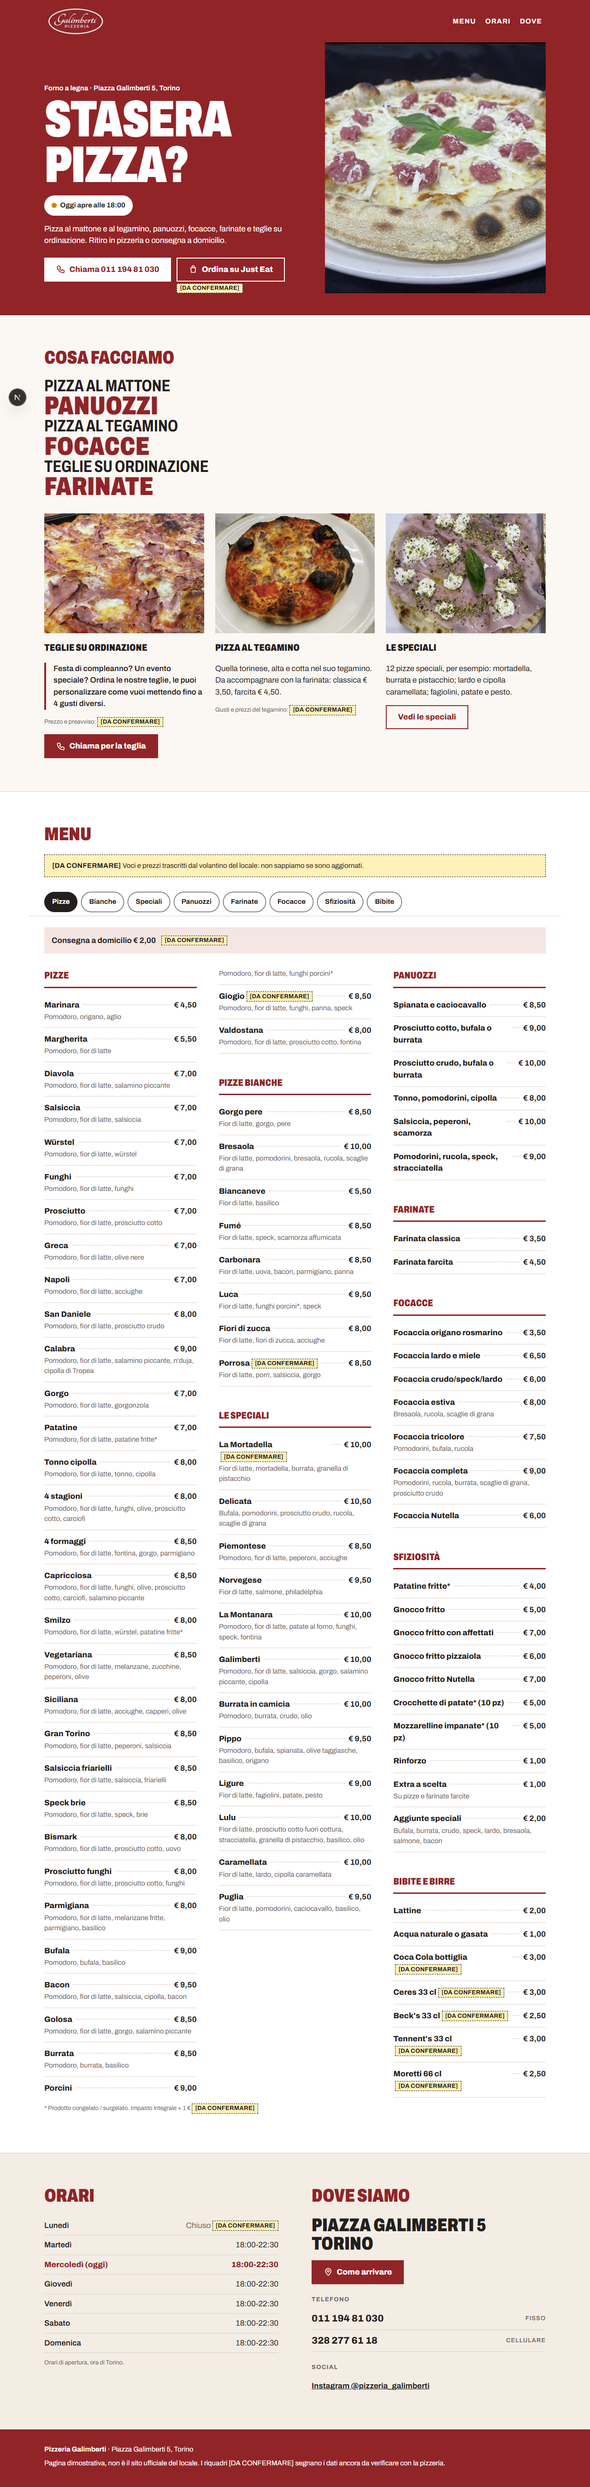
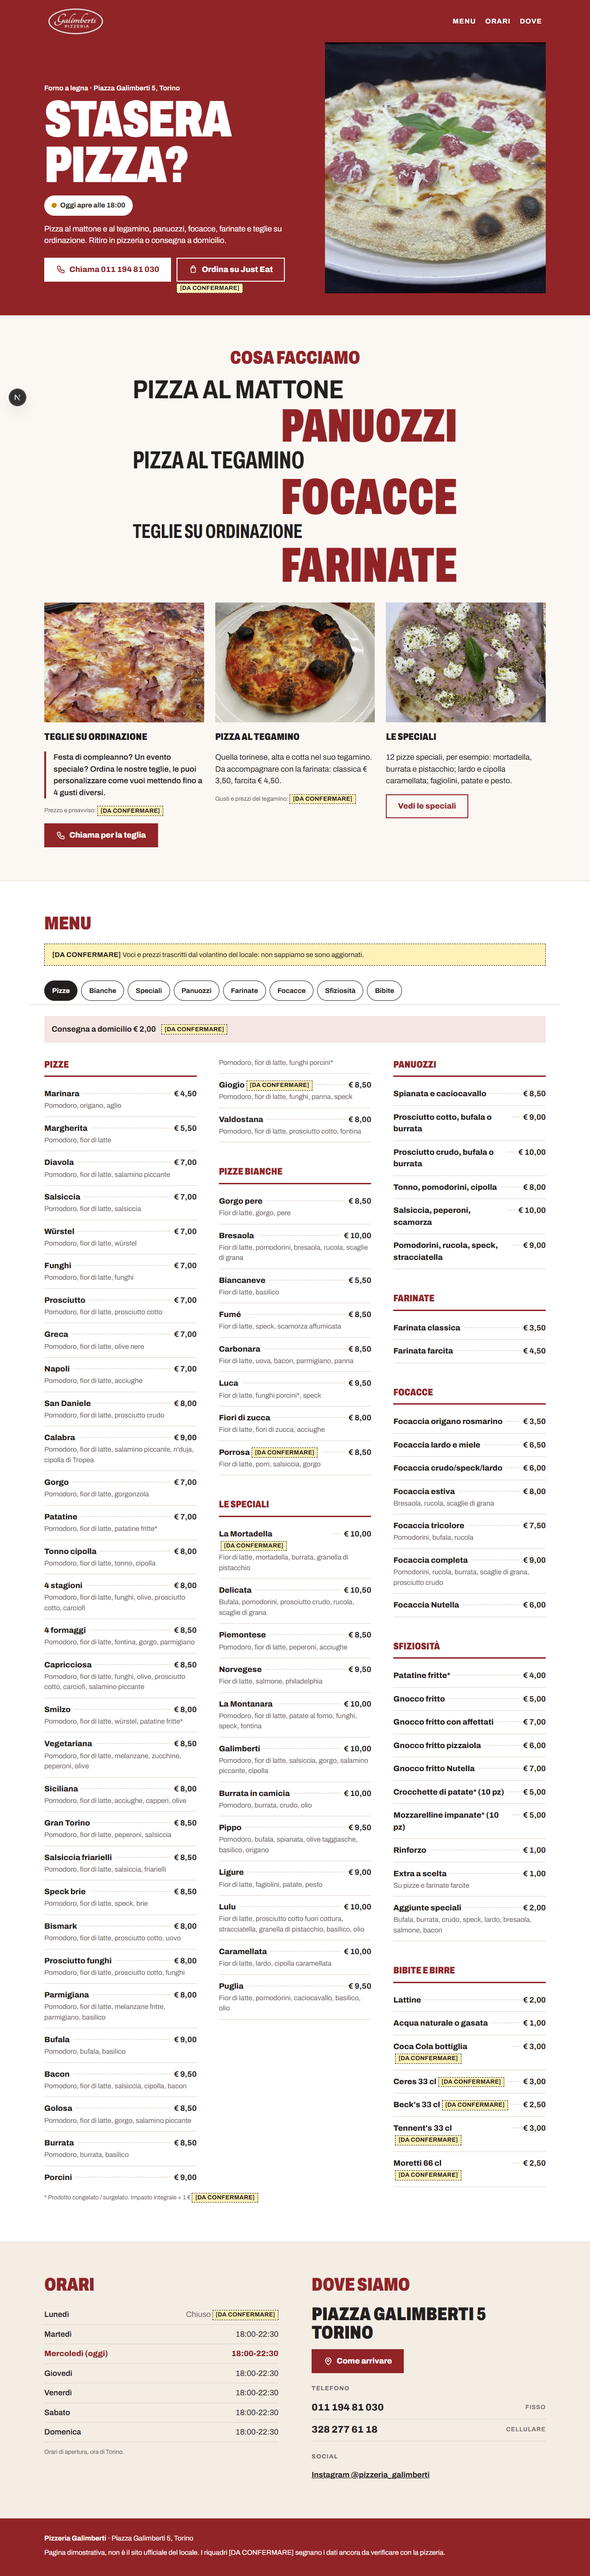
Effetto 'la pasta che si stende' sull'elenco del volantino
Le righe si allargano scorrendo (asse di larghezza di Archivo, 62% -> 125%)
fino a comporre il blocco giustificato del volantino. Rispetta
prefers-reduced-motion; senza JavaScript resta l'elenco statico.

Changed region(s): [[0.0, 0.0, 1.0, 0.9963]]

diff --git a/components/pasta-che-si-stende.tsx b/components/pasta-che-si-stende.tsx
@@ -1,0 +1,93 @@
+"use client";
+
+import { useEffect, useRef } from "react";
+
+/**
+ * "La pasta che si stende": le righe del volantino (menu2.png) partono
+ * strette e, mentre si scorre, si allargano fino a comporre il blocco
+ * giustificato del volantino vero, con le righe tutte della stessa larghezza.
+ * Tornando su si restringono. È l'asse di larghezza del font Archivo
+ * (62%-125%), quindi niente immagini e niente librerie.
+ *
+ * Senza JavaScript le righe restano come da CSS. Con "riduci movimento"
+ * si vede subito il blocco finito, senza animazione.
+ */
+
+const STRETTA = 62;
+const LARGA = 125;
+/** Oltre questa dimensione una parola corta diventerebbe un manifesto. */
+const CARATTERE_MASSIMO = 150;
+
+export default function PastaCheSiStende({ righe }: { righe: string[] }) {
+  const lista = useRef<HTMLUListElement>(null);
+
+  useEffect(() => {
+    const ul = lista.current;
+    if (!ul) return;
+    const voci = [...ul.querySelectorAll<HTMLElement>("li > span")];
+    const fermo = window.matchMedia("(prefers-reduced-motion: reduce)");
+
+    /** Per ogni riga, la dimensione che la fa arrivare da bordo a bordo. */
+    function misura() {
+      const larghezza = ul!.clientWidth;
+      for (const voce of voci) {
+        voce.style.fontSize = "100px";
+        voce.style.fontStretch = `${LARGA}%`;
+        const naturale = voce.getBoundingClientRect().width || 1;
+        const dimensione = Math.min(CARATTERE_MASSIMO, (100 * larghezza) / naturale);
+        voce.style.fontSize = `${dimensione.toFixed(2)}px`;
+      }
+      ul!.dataset.pronta = "";
+      aggiorna();
+    }
+
+    function aggiorna() {
+      const alto = window.innerHeight;
+      for (const voce of voci) {
+        let p = 1;
+        if (!fermo.matches) {
+          // Comincia a stendersi quando entra dal basso, è stesa al 60% dello schermo.
+          const top = voce.getBoundingClientRect().top;
+          p = Math.min(1, Math.max(0, (alto * 0.95 - top) / (alto * 0.35)));
+          p = 1 - (1 - p) ** 3;
+        }
+        voce.style.fontStretch = `${(STRETTA + (LARGA - STRETTA) * p).toFixed(1)}%`;
+      }
+    }
+
+    let frame = 0;
+    const alloScorrere = () => {
+      cancelAnimationFrame(frame);
+      frame = requestAnimationFrame(aggiorna);
+    };
+
+    // Si rimisura solo se cambia la larghezza: l'altezza cambia per colpa nostra.
+    let ultimaLarghezza = 0;
+    const osservatore = new ResizeObserver(() => {
+      if (ul.clientWidth !== ultimaLarghezza) {
+        ultimaLarghezza = ul.clientWidth;
+        misura();
+      }
+    });
+    document.fonts.ready.then(() => osservatore.observe(ul));
+    window.addEventListener("scroll", alloScorrere, { passive: true });
+    fermo.addEventListener("change", aggiorna);
+
+    return () => {
+      cancelAnimationFrame(frame);
+      osservatore.disconnect();
+      window.removeEventListener("scroll", alloScorrere);
+      fermo.removeEventListener("change", aggiorna);
+    };
+  }, []);
+
+  return (
+    <ul className="elenco-volantino" ref={lista}>
+      {righe.map((riga) => (
+        <li key={riga}>
+          <span>{riga}</span>
+        </li>
+      ))}
+    </ul>
+  );
+}

diff --git a/app/page.tsx b/app/page.tsx
@@ -1,5 +1,6 @@
 import { DaConfermare } from "@/components/da-confermare";
 import { IconaPosizione, IconaSacchetto, IconaTelefono } from "@/components/icone";
+import PastaCheSiStende from "@/components/pasta-che-si-stende";
 import SchedeMenu from "@/components/schede-menu";
 import StatoApertura from "@/components/stato-apertura";
 import {
@@ -134,20 +135,22 @@ export default async function Home() {
         </section>
 
         {/* --- Cosa facciamo --------------------------------------------- */}
-        <section className="sezione" aria-labelledby="cosa">
+        <section className="sezione cosa" aria-labelledby="cosa">
           <div className="contenitore">
             <h2 className="titolo-sezione" id="cosa">
               Cosa facciamo
             </h2>
             {/* Le sei righe del volantino (menu2.png), nello stesso ordine. */}
-            <ul className="elenco-volantino">
-              <li>Pizza al mattone</li>
-              <li>Panuozzi</li>
-              <li>Pizza al tegamino</li>
-              <li>Focacce</li>
-              <li>Teglie su ordinazione</li>
-              <li>Farinate</li>
-            </ul>
+            <PastaCheSiStende
+              righe={[
+                "Pizza al mattone",
+                "Panuozzi",
+                "Pizza al tegamino",
+                "Focacce",
+                "Teglie su ordinazione",
+                "Farinate",
+              ]}
+            />
 
             <div className="schede">
               <article className="scheda">

diff --git a/app/globals.css b/app/globals.css
@@ -365,6 +365,24 @@ a {
   font-weight: 900;
   color: var(--rosso);
 }
+.elenco-volantino li {
+  display: flex; /* lo span resta largo quanto il testo: serve a misurarlo */
+}
+.elenco-volantino span {
+  white-space: nowrap;
+}
+/* components/pasta-che-si-stende.tsx: dimensioni e larghezza le decide lo script. */
+.elenco-volantino[data-pronta] span {
+  line-height: 0.9;
+  will-change: font-stretch;
+}
+.elenco-volantino[data-pronta] li + li {
+  margin-top: 0.12em;
+}
+/* Le righe piene si stendono da destra, le sottili da sinistra: tirata da due mani. */
+.elenco-volantino[data-pronta] li:nth-child(even) {
+  justify-content: flex-end;
+}
 /* Come nel volantino: righe sottili e righe piene alternate. */
 .elenco-volantino li:nth-child(odd) {
   font-size: clamp(1.25rem, 6vw, 2.25rem);
@@ -716,6 +734,15 @@ a {
   }
   .foto-apertura img {
     aspect-ratio: 4 / 5;
+  }
+
+  /* Il blocco del volantino al centro, come il pannello rosso di menu2.png. */
+  .cosa .titolo-sezione {
+    text-align: center;
+  }
+  .cosa .elenco-volantino {
+    max-width: 44rem;
+    margin-inline: auto;
   }
 
   .schede {

diff --git a/docs/VERIFICA.md b/docs/VERIFICA.md
@@ -30,7 +30,7 @@ piccolo (134 px di larghezza originale).
 | Testo "Le speciali" | tutte | "12 pizze fuori dal solito" | Frase da brochure | Ora: "12 pizze speciali, per esempio: …" |
 | Pagina 404 | tutte | Testo di Next in inglese | Fuori lingua | Corretto |
 | Prima schermata | 768 | La foto della pizza è piccola e ritagliata in verticale, il cornicione si perde | Estetica, non uso | **Non corretto**, da rivedere con foto migliori |
-| Elenco del volantino | 1280 | Colonna stretta a sinistra, due terzi vuoti a destra | Spazio sprecato | **Non corretto**: voluto come eco del volantino, discutibile |
+| Elenco del volantino | 1280 | Colonna stretta a sinistra, due terzi vuoti a destra | Spazio sprecato | Corretto il 28/10 con l'effetto "pasta che si stende": blocco giustificato centrato |
 | Logo | tutte | Il file è 134×68 px: a 2x (telefoni) è sfocato | Prima cosa che si vede | **Non correggibile** senza il file originale: va chiesto al locale |
 | Bibite | 390 | Cinque [DA CONFERMARE] di fila rendono la lista pesante | Ma sono dubbi veri sul volantino | Lasciato: si tolgono quando il titolare conferma |
 
@@ -62,3 +62,12 @@ riportano tutto com'era. In produzione: senza database o con database irraggiung
 mostra i dati iniziali e l'admin mostra un riquadro rosso e blocca i salvataggi
 (`admin-390-database-non-collegato.png`). Con `ADMIN_PASSWORD` vuota o d'esempio la build e
 `next start` si fermano con un messaggio.
+
+## Effetto "la pasta che si stende" (aggiunto su richiesta dell'utente)
+Le sei righe del volantino partono strette (larghezza del font al 62%) e, scorrendo, si
+allargano fino al 125% componendo il blocco giustificato di `menu2.png`; le righe piene da
+destra, le sottili da sinistra. Provato con Playwright a 390 e 1280 px (`strumenti/prova-pasta.js`):
+a fine corsa ogni riga misura quanto il contenitore (356-357 px su 358 a 390 px), nessuno
+scorrimento orizzontale, nessun errore in console. Con "riduci movimento" le righe sono subito
+stese, senza animazione. Senza JavaScript resta l'elenco statico di prima. Costo: nessuna
+immagine né libreria, solo l'asse di larghezza del font già caricato.

diff --git a/DECISIONI.md b/DECISIONI.md
@@ -111,3 +111,12 @@ documentazione lo limita a uso personale non commerciale, e un sito che promuove
 (o che si viene pagati per fare o ospitare) è commerciale
 ([Vercel, Fair use guidelines](https://vercel.com/docs/limits/fair-use-guidelines), aggiornata
 14/09/2026). Alternativa più economica non provata: Cloudflare Workers con l'adattatore OpenNext.
+
+## 6. Effetto "wow" (richiesta dell'utente, 28/10/2026)
+Scelto: **"la pasta che si stende"**. Le righe del volantino ("Pizza al mattone, Panuozzi…") si
+allargano mentre si scorre, come pasta tirata, fino a diventare il blocco giustificato del
+volantino vero (`menu2.png`). Motivi: nasce dal materiale del locale (le sue parole, la sua
+impaginazione), parla di pasta e forno senza illustrazioni inventate, funziona a qualsiasi ora
+(non dipende dall'apertura) e pesa zero (asse di larghezza del font Archivo, già caricato).
+Scartata un'insegna al neon "APERTO" che si accende alle 18: d'effetto, ma in una demo fatta di
+giorno si vedrebbe spenta, e il neon non è nell'identità del locale.
